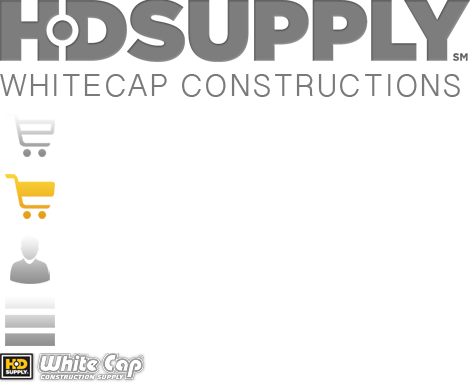
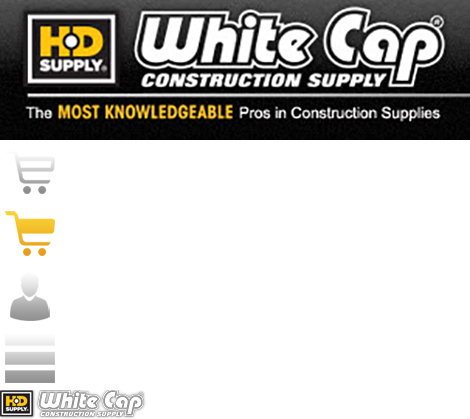
Defect Fix
2274

diff --git a/assets/stylesheets/globals/_Icons.scss b/assets/stylesheets/globals/_Icons.scss
@@ -1,116 +1,116 @@
 $Icons-url: url("/_moovweb_local_assets_/images/Icons.png");
 
 $Icons-width: 470px;
-$Icons-height: 382px;
+$Icons-height: 419px;
 
 $Icons-HDSupply-Logo-x: 0px;
-$Icons-HDSupply-Logo-y: 0.5px;
+$Icons-HDSupply-Logo-y: 0px;
 $Icons-HDSupply-Logo-width: 235px;
-$Icons-HDSupply-Logo-height: 52px;
+$Icons-HDSupply-Logo-height: 70px;
 
 $Icons-cart-empty-x: 0px;
-$Icons-cart-empty-y: -52.5px;
+$Icons-cart-empty-y: -71px;
 $Icons-cart-empty-width: 30px;
 $Icons-cart-empty-height: 30px;
 
 $Icons-cart-full-x: 0px;
-$Icons-cart-full-y: -83.5px;
+$Icons-cart-full-y: -102px;
 $Icons-cart-full-width: 30px;
 $Icons-cart-full-height: 30px;
 
 $Icons-male_user-x: 0px;
-$Icons-male_user-y: -114.5px;
+$Icons-male_user-y: -133px;
 $Icons-male_user-width: 30px;
 $Icons-male_user-height: 30px;
 
 $Icons-menu-x: 0px;
-$Icons-menu-y: -145.5px;
+$Icons-menu-y: -164px;
 $Icons-menu-width: 30px;
 $Icons-menu-height: 30px;
 
 $Icons-white-cap-logo-no-tagline-x: 0px;
-$Icons-white-cap-logo-no-tagline-y: -353px;
+$Icons-white-cap-logo-no-tagline-y: -390px;
 $Icons-white-cap-logo-no-tagline-width: 147px;
 $Icons-white-cap-logo-no-tagline-height: 29px;
 
 @mixin Icons-HDSupply-Logo() {
-  background: url("/_moovweb_local_assets_/images/Icons.png") no-repeat 0px 0.5px;
-  @include background-size(235px 191px);
+  background: url("/_moovweb_local_assets_/images/Icons.png") no-repeat 0px 0px;
+  @include background-size(235px 209.5px);
   width: 235px;
-  height: 52px;
+  height: 70px;
 }
 
 @mixin Icons-cart-empty() {
-  background: url("/_moovweb_local_assets_/images/Icons.png") no-repeat 0px -52.5px;
-  @include background-size(235px 191px);
+  background: url("/_moovweb_local_assets_/images/Icons.png") no-repeat 0px -71px;
+  @include background-size(235px 209.5px);
   width: 30px;
   height: 30px;
 }
 
 @mixin Icons-cart-full() {
-  background: url("/_moovweb_local_assets_/images/Icons.png") no-repeat 0px -83.5px;
-  @include background-size(235px 191px);
+  background: url("/_moovweb_local_assets_/images/Icons.png") no-repeat 0px -102px;
+  @include background-size(235px 209.5px);
   width: 30px;
   height: 30px;
 }
 
 @mixin Icons-male_user() {
-  background: url("/_moovweb_local_assets_/images/Icons.png") no-repeat 0px -114.5px;
-  @include background-size(235px 191px);
+  background: url("/_moovweb_local_assets_/images/Icons.png") no-repeat 0px -133px;
+  @include background-size(235px 209.5px);
   width: 30px;
   height: 30px;
 }
 
 @mixin Icons-menu() {
-  background: url("/_moovweb_local_assets_/images/Icons.png") no-repeat 0px -145.5px;
-  @include background-size(235px 191px);
+  background: url("/_moovweb_local_assets_/images/Icons.png") no-repeat 0px -164px;
+  @include background-size(235px 209.5px);
   width: 30px;
   height: 30px;
 }
 
 @mixin Icons-white-cap-logo-no-tagline() {
-  background: url("/_moovweb_local_assets_/images/Icons.png") no-repeat 0px -353px;
+  background: url("/_moovweb_local_assets_/images/Icons.png") no-repeat 0px -390px;
   width: 147px;
   height: 29px;
 }
 
 .Icons-HDSupply-Logo {
-  background: url("/_moovweb_local_assets_/images/Icons.png") no-repeat 0px 0.5px;
-  background-size: 235px 191px;
+  background: url("/_moovweb_local_assets_/images/Icons.png") no-repeat 0px 0px;
+  background-size: 235px 209.5px;
   width: 235px;
-  height: 52px;
+  height: 70px;
 }
 
 .Icons-cart-empty {
-  background: url("/_moovweb_local_assets_/images/Icons.png") no-repeat 0px -52.5px;
-  background-size: 235px 191px;
+  background: url("/_moovweb_local_assets_/images/Icons.png") no-repeat 0px -71px;
+  background-size: 235px 209.5px;
   width: 30px;
   height: 30px;
 }
 
 .Icons-cart-full {
-  background: url("/_moovweb_local_assets_/images/Icons.png") no-repeat 0px -83.5px;
-  background-size: 235px 191px;
+  background: url("/_moovweb_local_assets_/images/Icons.png") no-repeat 0px -102px;
+  background-size: 235px 209.5px;
   width: 30px;
   height: 30px;
 }
 
 .Icons-male_user {
-  background: url("/_moovweb_local_assets_/images/Icons.png") no-repeat 0px -114.5px;
-  background-size: 235px 191px;
+  background: url("/_moovweb_local_assets_/images/Icons.png") no-repeat 0px -133px;
+  background-size: 235px 209.5px;
   width: 30px;
   height: 30px;
 }
 
 .Icons-menu {
-  background: url("/_moovweb_local_assets_/images/Icons.png") no-repeat 0px -145.5px;
-  background-size: 235px 191px;
+  background: url("/_moovweb_local_assets_/images/Icons.png") no-repeat 0px -164px;
+  background-size: 235px 209.5px;
   width: 30px;
   height: 30px;
 }
 
 .Icons-white-cap-logo-no-tagline {
-  background: url("/_moovweb_local_assets_/images/Icons.png") no-repeat 0px -353px;
+  background: url("/_moovweb_local_assets_/images/Icons.png") no-repeat 0px -390px;
   width: 147px;
   height: 29px;
 }
